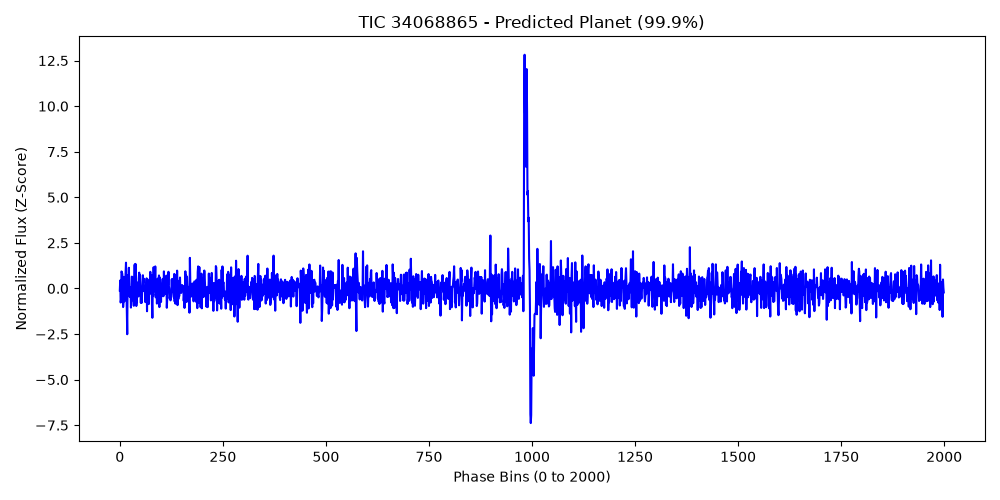
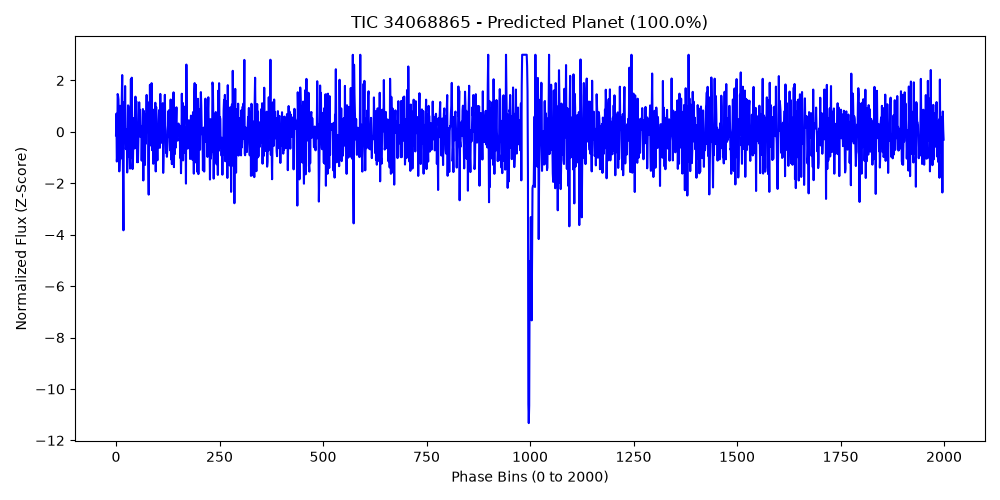
feat(model): adding a Robust MAD Normalization & One-Sided Clip to avoid massive peak

diff --git a/src/pipeline/evaluate_model.py b/src/pipeline/evaluate_model.py
@@ -15,12 +15,15 @@ def load_and_preprocess_data():
     
     # EXACT same preprocessing as train_model.py to ensure the data looks identical
     X_raw = np.nan_to_num(X_raw, nan=1.0, posinf=1.0, neginf=1.0)
-    mean = np.mean(X_raw, axis=1, keepdims=True)
-    std = np.std(X_raw, axis=1, keepdims=True)
-    X_scaled = (X_raw - mean) / (std + 1e-8)
+    median = np.median(X_raw, axis=1, keepdims=True)
+    mad = np.median(np.abs(X_raw - median), axis=1, keepdims=True)
+    mad_scaled = mad * 1.4826
+    
+    X_scaled = (X_raw - median) / (mad_scaled + 1e-8)
     X_scaled = np.nan_to_num(X_scaled, nan=0.0)
     
-    # REMOVED np.clip
+    # One-Sided Clip: Cap positive flares at +3.0, leave negatives intact
+    X_scaled = np.clip(X_scaled, a_min=None, a_max=3.0)
     
     num_samples = X_scaled.shape[0]
     sequence_length = X_scaled.shape[1]

diff --git a/app.py b/app.py
@@ -56,10 +56,15 @@ def predict():
             
         X_raw = np.array([flux])
         X_raw = np.nan_to_num(X_raw, nan=1.0, posinf=1.0, neginf=1.0)
-        mean = np.mean(X_raw, axis=1, keepdims=True)
-        std = np.std(X_raw, axis=1, keepdims=True)
-        X_scaled = (X_raw - mean) / (std + 1e-8)
+        median = np.median(X_raw, axis=1, keepdims=True)
+        mad = np.median(np.abs(X_raw - median), axis=1, keepdims=True)
+        mad_scaled = mad * 1.4826
+        
+        X_scaled = (X_raw - median) / (mad_scaled + 1e-8)
         X_scaled = np.nan_to_num(X_scaled, nan=0.0)
+        
+        # One-Sided Clip: Cap positive flares at +3.0
+        X_scaled = np.clip(X_scaled, a_min=None, a_max=3.0)
         
         X = X_scaled.reshape((1, 2000, 1))
         prediction = float(model.predict(X, verbose=0)[0][0])

diff --git a/src/pipeline/predict_star.py b/src/pipeline/predict_star.py
@@ -61,11 +61,15 @@ def process_and_predict(star_id):
     X_raw = np.array([flux])
     X_raw = np.nan_to_num(X_raw, nan=1.0, posinf=1.0, neginf=1.0)
     
-    mean = np.mean(X_raw, axis=1, keepdims=True)
-    std = np.std(X_raw, axis=1, keepdims=True)
-    X_scaled = (X_raw - mean) / (std + 1e-8)
+    median = np.median(X_raw, axis=1, keepdims=True)
+    mad = np.median(np.abs(X_raw - median), axis=1, keepdims=True)
+    mad_scaled = mad * 1.4826
+    
+    X_scaled = (X_raw - median) / (mad_scaled + 1e-8)
     X_scaled = np.nan_to_num(X_scaled, nan=0.0)
-    # REMOVED np.clip to prevent the Clever Hans effect
+    
+    # One-Sided Clip: Cap positive flares at +3.0, leave bottom unclipped!
+    X_scaled = np.clip(X_scaled, a_min=None, a_max=3.0)
     
     X = X_scaled.reshape((1, 2000, 1))
     
